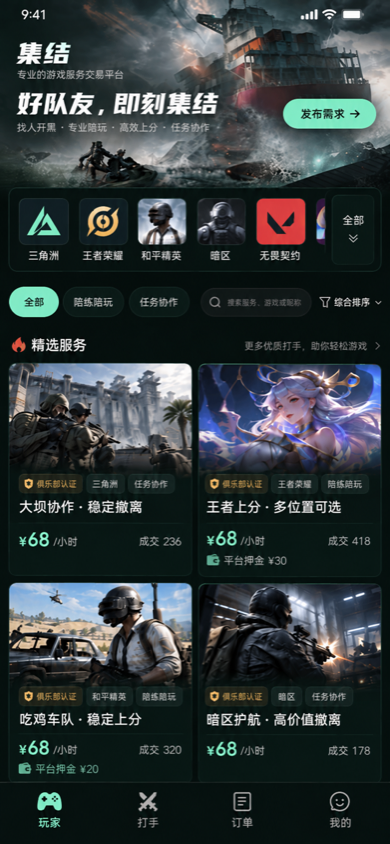
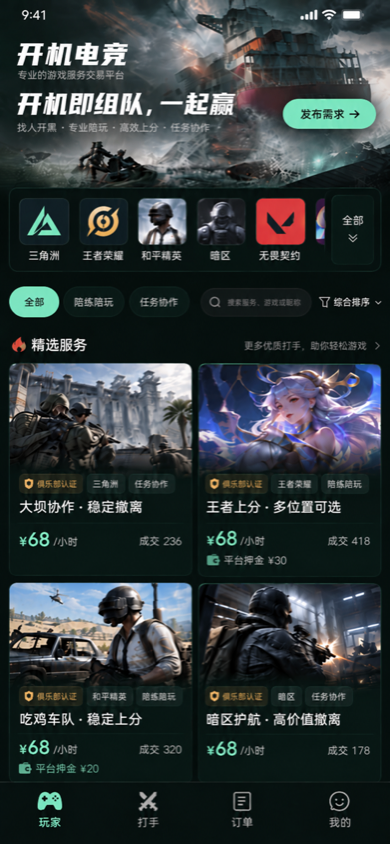
同步开机电竞设计图并补充正式包验收记录

diff --git a/docs/BRAND_RENAME.md b/docs/BRAND_RENAME.md
@@ -19,9 +19,25 @@
 ## 本次验证
 
 - 前端类型检查、开发规范检查、329 项现有测试、H5 与微信构建通过。
+- 额外执行 `./scripts/release-mini.sh`，正式微信包构建通过，合法域名校验 `urlCheck=true`，且未携带本地 `project.private.config.json`；没有上传或发布到微信。
 - 使用本地模拟公开目录和协议，浏览器复核首页与登录页在 320 / 390 宽度下的品牌显示、按钮间距与横向溢出；四张实屏见 `output/playwright/kaiji-brand-*.png`。
 - 后端普通测试、静态检查、全量真实 PostgreSQL / Redis 集成与竞态检查通过。新增测试覆盖默认迁移、定制配置保留、重复启动、协议版本碰撞，以及旧同意、聊天、订单快照不变。
 - README 的四张功能预览来自既有历史本地模拟实屏，已明确标注；它们不作为本轮新功能或真实资金验收证据。
 - README 按 GitHub 风格 Markdown 渲染后复核：7 张表格、所有图片与锚点正常，无原样加粗标记；桌面与 390 宽度无页面横向溢出，实屏见 `output/playwright/kaiji-readme-*.png`。此项为本地渲染检查。
 
 本次没有部署生产，也没有改写生产配置或数据库。真实微信登录、手机号、商户付款退款、商家转账到账、真实 AI 和真机发布仍需独立验收。
+
+## 当前设计资产
+
+品牌文字使用内置 ImageGen 的 `text-localization` 模式局部编辑，保持原 390 × 844 尺寸及无关布局、画面和控件。完整编辑提示词保存在各页面设计说明的“品牌名称更新（2026-10-23）”部分。
+
+| 页面 | 设计图 | 编辑说明与提示词 |
+| --- | --- | --- |
+| 用户协议 | [agreements.png](../design/pages/account/agreements.png) | [说明](../design/pages/account/agreements.design.md) |
+| 登录 | [login.png](../design/pages/account/login.png) | [说明](../design/pages/account/login.design.md) |
+| 主页面 | [index.png](../design/pages/main/index.png) | [说明](../design/pages/main/index.design.md) |
+| 玩家首页 | [player.png](../design/pages/main/player/player.png) | [说明](../design/pages/main/player/player.design.md) |
+| 游戏选择 | [player-game-picker.png](../design/pages/main/player/player-game-picker.png) | [说明](../design/pages/main/player/player-game-picker.design.md) |
+| 打手工作台 | [worker.png](../design/pages/main/worker/worker.png) | [说明](../design/pages/main/worker/worker.design.md) |
+| 平台设置 | [platform.png](../design/pages/manage/platform.png) | [说明](../design/pages/manage/platform.design.md) |
+| 协议管理 | [settings.png](../design/pages/manage/settings.png) | [说明](../design/pages/manage/settings.design.md) |
